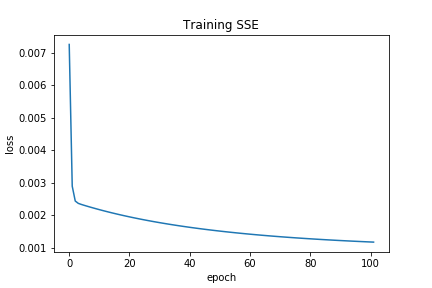
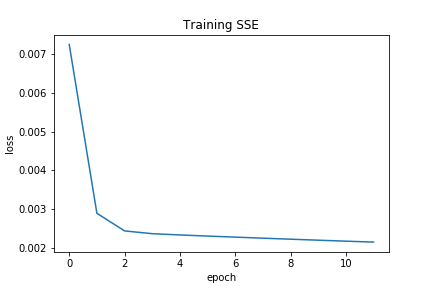
changes

diff --git a/LinearRegression_GS.py b/LinearRegression_GS.py
@@ -14,7 +14,7 @@ class LinearRegression:
     # Public method
     def train(self, x_train, y_train, lr, regularization, epsilon):
 
-        #weight = np.random.random_sample(x_train.shape[1])
+        # weight = np.random.random_sample(x_train.shape[1])
         weight = np.zeros(x_train.shape[1])
         weight_ref = weight
 
@@ -23,7 +23,7 @@ class LinearRegression:
         error_train_pre = error_train
 
         epoch = 1
-        max_epoch = 1000
+        max_epoch = 10
         count = 0  # To check whether exploding
         flag_div = False
 
@@ -45,12 +45,12 @@ class LinearRegression:
             weight = weight - lr * gradient
 
             # Calculate training error
-            _error_train = self.__calc_error(x_train, y_train, weight)          # SSE
+            _error_train = self.__calc_error(x_train, y_train, weight)  # SSE
             _error_train_normalize = _error_train / x_train.shape[0]
             error_train_normalize = np.append(error_train_normalize, _error_train_normalize)
 
             norm_gradient = np.sqrt(np.dot(gradient, gradient))  # Norm of the gradient
-            #print(_error_train)
+            # print(_error_train)
 
             # Save weight at each epoch for calculating validation error
             weight_ref = np.append(weight_ref, weight)
@@ -66,7 +66,7 @@ class LinearRegression:
                 if count > 9:
                     flag_div = True
                 break
-            
+
             epoch += 1
 
         weight_ref = np.reshape(weight_ref, (-1, x_train.shape[1]))
@@ -82,7 +82,7 @@ class LinearRegression:
             _weight = weight_ref[i, :]
             error_valid[i] = self.__calc_error(x_valid, y_valid, _weight)
 
-        error_valid_normalize = error_valid # / x_valid.shape[0]
+        error_valid_normalize = error_valid  # / x_valid.shape[0]
         return error_valid_normalize
 
     def predict(self, x_test, weight, x_min, x_max):
@@ -93,32 +93,32 @@ class LinearRegression:
         for i in range(num):
             y_test[i] = self.__regression(x_test[i, :], weight)
             y_test[i] = (x_max - x_min) * y_test[i] + x_min  # Reverse the normalization
-         #   print("Predicted cost is $", y_test[i], ".")
+        #   print("Predicted cost is $", y_test[i], ".")
 
         return y_test
 
-    def error_graph(self, figname, error,  flag_div, title):
+    def error_graph(self, figname, error, flag_div, title):
 
-        if flag_div == True: 
+        if flag_div == True:
             fig = plt.figure()
             plt.plot(np.arange(0, error.shape[0]), error)
-            
+
             plt.xlabel('epoch')
             plt.ylabel('loss')
-           
+
             plt.yscale('log')
             plt.xscale('log')
             plt.title(str(title))
-            plt.savefig('figure_part2/' + figname, bbox_inches = "tight")
+            plt.savefig('figure_part1/' + figname)
             plt.close(fig)
-            
+
         else:
             fig = plt.figure()
             plt.plot(np.arange(0, error.shape[0]), error)
             plt.xlabel('epoch')
             plt.ylabel('loss')
             plt.title(str(title))
-            plt.savefig('figure_part2/' + figname, bbox_inches = "tight")
+            plt.savefig('figure_part1/' + figname)
             plt.close(fig)
 
     def __regression(self, x, weight):
@@ -140,36 +140,38 @@ class LinearRegression:
 
         return error
 
-    def plot_sse_epoch(self, dict_sse, title):
+    def plot_sse_epoch(self, dict_sse):
         fig = plt.figure()
-        for r in dict_sse:
-            plt.plot(dict_sse[r], label=str(r))
+        for _lr in dict_sse:
+            print(_lr, len(dict_sse[lr]))
+            plt.plot(dict_sse[_lr], label=str(_lr))
         plt.xlabel('epoch')
         plt.ylabel('SSE')
         plt.legend()
-        plt.yscale('log')
-        #plt.xscale('log')
-        #plt.show()
-        plt.savefig('figure_part2/{}_sse_epoch_reg.png'.format(title), bbox_inches = "tight")
+        # plt.yscale('log')
+        # plt.xscale('log')
+        # plt.show()
+        plt.savefig('figure_part1/sse_epoch_lr.png')
         plt.close(fig)
 
     def percent_diff(self, y_actual, y_pred):
-        percent_diff = 100*(np.abs(y_actual - y_pred)) / y_actual #absolute percent difference
+        percent_diff = 100 * (np.abs(y_actual - y_pred)) / y_actual  # absolute percent difference
         return percent_diff
-        
-    def plot_box_r(self, dict_error):
+
+    def plot_box_lr(self, dict_error):
         fig = plt.figure()
-        
-        # or backwards compatable    
+
+        # or backwards compatable
         labels, data = dict_error.keys(), dict_error.values()
-        
+
         plt.boxplot(data, showfliers=False)
-        plt.xticks(range(1, len(labels) + 1), labels)        
-        plt.xlabel('Regularization')
+        plt.xticks(range(1, len(labels) + 1), labels)
+        plt.xlabel('Learning Rate')
         plt.ylabel('Percent difference in price prediction')
-        #plt.show()
-        plt.savefig('figure_part2/percent_diff_boxplot.png', bbox_inches = "tight")
+        # plt.show()
+        plt.savefig('figure_part1/percent_diff_boxplot.png')
         plt.close(fig)
+
 
 class FeatureEngineering:
 
@@ -188,8 +190,8 @@ class FeatureEngineering:
 
         x_normalized = (x - x_min) / (x_max - x_min)
 
-       # x_id = df.loc[:, 'dummy']  # Dummy variable
-       # x_normalized = pd.concat([x_id, x_normalized], axis=1)  # Add dummy
+        x_id = df.loc[:, 'dummy']  # Dummy variable
+        x_normalized = pd.concat([x_id, x_normalized], axis=1)  # Add dummy
         y = x_normalized.loc[:, 'price']
         x_normalized = x_normalized.drop(['price'], axis=1)  # Remove price
 
@@ -209,8 +211,8 @@ class FeatureEngineering:
 
         x_normalized = (x - x_min) / (x_max - x_min)
 
-       # x_id = df.loc[:, 'dummy']
-       # x_normalized = pd.concat([x_id, x_normalized], axis=1)
+        x_id = df.loc[:, 'dummy']
+        x_normalized = pd.concat([x_id, x_normalized], axis=1)
 
         y = x_normalized.loc[:, 'price']
         x_normalized = x_normalized.drop(['price'], axis=1)  # Remove price
@@ -233,84 +235,91 @@ class FeatureEngineering:
         x = pd.concat([x_date, x], axis=1)
 
         x_normalized = (x - x_min) / (x_max - x_min)
-      #  x_id = df.loc[:, 'dummy']
-       # x_normalized = pd.concat([x_id, x_normalized], axis=1)
+        x_id = df.loc[:, 'dummy']
+        x_normalized = pd.concat([x_id, x_normalized], axis=1)
 
         x = x_normalized.values
 
         return x
 
-#def main():
 
+# def main():
 
 
 if __name__ == '__main__':
-    #main()
+    # main()
 
     feature_eng = FeatureEngineering()
 
-#    x_train, y_train, x_min, x_max = feature_eng.train('C:\Fall 2019\CS534_MachineLearning\PA1_train.csv')
-#    x_valid, y_valid = feature_eng.valid('C:\Fall 2019\CS534_MachineLearning\PA1_dev.csv', x_min, x_max)
-#    x_test = feature_eng.predict('C:\Fall 2019\CS534_MachineLearning\PA1_test.csv', x_min, x_max)
+    #    x_train, y_train, x_min, x_max = feature_eng.train('C:\Fall 2019\CS534_MachineLearning\PA1_train.csv')
+    #    x_valid, y_valid = feature_eng.valid('C:\Fall 2019\CS534_MachineLearning\PA1_dev.csv', x_min, x_max)
+    #    x_test = feature_eng.predict('C:\Fall 2019\CS534_MachineLearning\PA1_test.csv', x_min, x_max)
 
     x_train, y_train, x_min, x_max = feature_eng.train('PA1_train.csv')
     x_valid, y_valid_true = feature_eng.valid('PA1_dev.csv', x_min, x_max)
     x_test = feature_eng.predict('PA1_test.csv', x_min, x_max)
 
-
-    regularization = [0, 1e-3, 1e-2, 1e-1, 1, 10, 100]
+    # regularization = 0
     epsilon = 0.5
-    lr = 1e-5
-    
-    features = x_min.index
-    features = features[:-1]
-    
-    dict_valid_sse = {} 
-    dict_train_sse = {}
+    lr_mat = [1, 1e-1, 1e-2, 1e-3, 1e-4, 1e-5, 1e-6, 1e-7]
+    reg_mat = [100, 10, 1, 1e-1, 1e-2, 1e-3, 0]
+    dict_sse = {}
     dict_pred = {}
-    df_weight = pd.DataFrame(index = features, columns = regularization)
-    df_sse = pd.DataFrame(index=regularization, columns = ["Train SSE", "Validation SSE"])
 
-    for r in regularization:
-        print(r)
-        linear_regression = LinearRegression()
+    candidates = np.array([])
+    candidates_weight = np.array([])
 
-        weight, weight_ref, error_train_normalize, epoch, flag_div = linear_regression.train(x_train, y_train, lr, r, epsilon)
-        error_valid_normalize = linear_regression.valid(x_valid, y_valid_true, weight_ref, epoch)
+    for i in range(len(reg_mat)):
+        regularization = reg_mat[i]
+        for j in range(len(lr_mat)):
+            lr = lr_mat[j]
+            linear_regression = LinearRegression()
 
-        linear_regression.error_graph('train_error_reg{}.png'.format(r), error_train_normalize, flag_div, "Training SSE")
-        linear_regression.error_graph('valid_error_reg{}.png'.format(r), error_valid_normalize, flag_div, "Validation SSE")
-        
-        y_test = linear_regression.predict(x_test, weight, x_min.loc['price'], x_max.loc['price'])
-        
-        df_weight.loc[:, r] = weight
-        df_sse.loc[r, "Train SSE"] = error_train_normalize[-1]
-        df_sse.loc[r, "Validation SSE"] = error_valid_normalize[-1]
-        
-        if flag_div == False: 
-            y_valid_pred = linear_regression.predict(x_valid, weight, x_min.loc['price'], x_max.loc['price'])
-            y_valid_true = (x_max.price - x_min.price) * y_valid_true + x_min.price
-            diff = linear_regression.percent_diff(y_valid_true, y_valid_pred)
-            dict_pred[r] = diff
+            weight, weight_ref, error_train_normalize, epoch, flag_div = linear_regression.train(x_train, y_train, lr, regularization, epsilon)
+            error_valid_normalize = linear_regression.valid(x_valid, y_valid_true, weight_ref, epoch)
 
-            dict_valid_sse[r] = error_valid_normalize
-            dict_train_sse[r] = error_train_normalize
-            
-            if r == 0:
-                with open("y_test.txt") as f:
-                    for pred in y_test:
-                        f.write(pred)
-                        
-    linear_regression.plot_sse_epoch(dict_train_sse, "Train")
-    linear_regression.plot_sse_epoch(dict_valid_sse, "Validation")
+            print("validation error -> ", error_valid_normalize[-1], ", learning rate -> ", lr, ", regularization -> ", regularization, ", divergence -> ", flag_div)
+            print("weight ->", weight)
 
-    linear_regression.plot_box_r(dict_pred)
-    
-    print("Weights for various regularization parameters:")
-    print(df_weight)
-    df_weight.to_csv("figure_part2/df_weight_part2.csv")
-    
-    print("SSE:")
-    print(df_sse)
-    df_sse.to_csv("figure_part2/df_sse_part2.csv")
-        
+            candidate = np.array([error_valid_normalize[-1], lr, regularization])
+            candidates_weight = np.append(candidates_weight, weight)
+
+            candidates = np.append(candidates, candidate)
+
+            condition = str(lr) + "_" + str(regularization)
+
+            linear_regression.error_graph('train_error_lr{}.png'.format(condition), error_train_normalize, flag_div,
+                                          "Training SSE")
+            linear_regression.error_graph('valid_error_lr{}.png'.format(condition), error_valid_normalize, flag_div,
+                                          "Validation SSE")
+
+            y_test = linear_regression.predict(x_test, weight, x_min.loc['price'], x_max.loc['price'])
+
+            if flag_div == False:
+                y_valid_pred = linear_regression.predict(x_valid, weight, x_min.loc['price'], x_max.loc['price'])
+                y_valid_true = (x_max.price - x_min.price) * y_valid_true + x_min.price
+                diff = linear_regression.percent_diff(y_valid_true, y_valid_pred)
+                dict_pred[lr] = diff
+
+                dict_sse[lr] = error_valid_normalize
+
+        #linear_regression.plot_sse_epoch(dict_sse)
+
+        #linear_regression.plot_box_lr(dict_pred)
+
+    candidates = np.reshape(candidates, (len(lr_mat)*len(reg_mat), 3))
+    candidates_weight = np.reshape(candidates_weight, (-1, x_train.shape[1]))
+    best_condition_index = candidates[:, 0].argmin()
+    best_condition = candidates[best_condition_index, :]
+
+    best_weight = candidates_weight[best_condition_index, :]
+    best_lr = best_condition[1]
+    best_regularization = best_condition[2]
+
+    print("best learning rate -> ", best_lr, ", best regularization -> ", best_regularization)
+    print("best weight -> ", best_weight)
+
+    y_test = linear_regression.predict(x_test, best_weight, x_min.loc['price'], x_max.loc['price'])
+    y_test = y_test.reshape(-1, 1)
+    y_test = pd.DataFrame(y_test)
+    y_test.to_csv('result.csv')

diff --git a/part_1.py b/part_1.py
@@ -23,7 +23,7 @@ class LinearRegression:
         error_train_pre = error_train
 
         epoch = 1
-        max_epoch = 100
+        max_epoch = 1000
         count = 0  # To check whether exploding
         flag_div = False
 
@@ -260,12 +260,12 @@ if __name__ == '__main__':
     x_test = feature_eng.predict('PA1_test.csv', x_min, x_max)
     
     features = x_min.index
-    features = features[:-1]
+    features = ["dummy", *features[:-1]]
 
     regularization = 0
     epsilon = 0.5
     lr_mat = [1, 1e-1, 1e-2, 1e-3, 1e-4, 1e-5, 1e-6, 1e-7] 
-    lr_mat_conv = copy(lr_m)
+    lr_mat_conv = lr_mat.copy()
 
     dict_sse = {} 
     dict_pred = {}
@@ -297,8 +297,6 @@ if __name__ == '__main__':
 
             dict_sse[lr] = error_valid_normalize
             
-            
-            
             df_sse.loc[lr, "Train SSE"] = error_train_normalize[-1]
             df_sse.loc[lr, "Validation SSE"] = error_valid_normalize[-1]
             df_sse.loc[lr, "Epochs for conergence"] = epoch
@@ -308,6 +306,7 @@ if __name__ == '__main__':
     linear_regression.plot_box_lr(dict_pred)
     
     df_weight = df_weight[lr_mat_conv]
+    df_weight = df_weight.dropna()
     print("Weights for various learning rates, converged conditions:")
     print(df_weight)
     df_weight.to_csv("figure_part1/df_weight.csv")

diff --git a/part_0.py b/part_0.py
@@ -100,6 +100,8 @@ if __name__ == '__main__':
         df_num.loc[str(n), "Min"] = np.min(values)
         df_num.loc[str(n), "Max"] = np.max(values)
         
+    df_num.to_csv("df_num.csv")
+        
     # categorical barplots
     df_cat = df.drop(numerical, axis = 1)
     for c in categorical:
